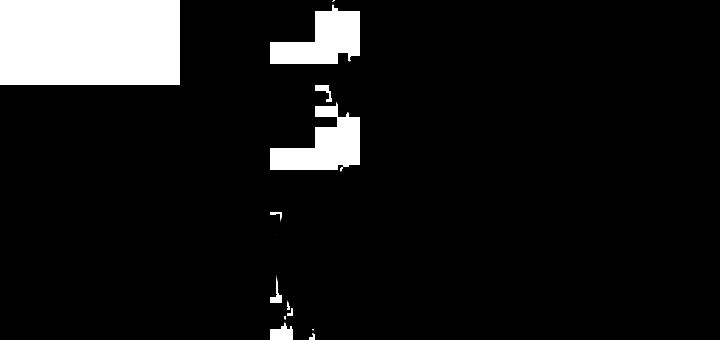
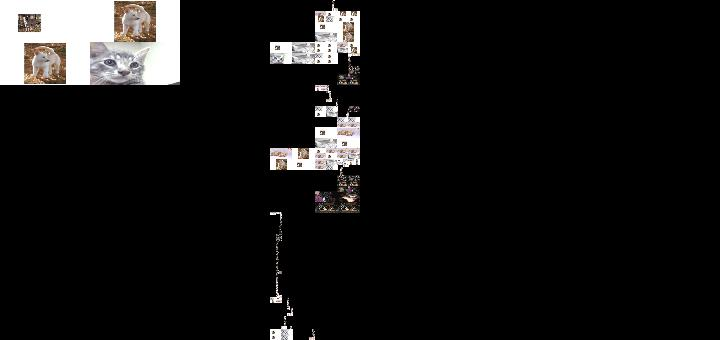
Choose tiles from img collection.

diff --git a/MosaicBuilder.py b/MosaicBuilder.py
@@ -18,7 +18,7 @@ class MosaicBuilder:
         self.mosaic_img = MosaicImage(image_data)
 
     # find k nearest tiles for a part and return one random
-    def nearest_tile(self, part_data, k=K_NEAREST_TILES):
+    def nearest_tile_index(self, part_data, k=K_NEAREST_TILES):
         # go through each tile in turn looking for the best match for the part of the image represented by 'img_data'
         part_mean_lab_clr = self.mean_lab_clr(part_data)
         clr_differences_between_part_and_tiles = np.array([self.color_distance_lab(tile.mean_lab_clr, part_mean_lab_clr) for tile in self.tiles_data])
@@ -58,7 +58,8 @@ class MosaicBuilder:
                 pocket_with_quarters += current_quarters # его части добавили в карман для дальнейшего деления 
             else:
                 for quarter in current_quarters:  
-                    self.mosaic_img.add_tile(quarter[0], quarter[1]) # иначе сразу вставляем четверти в мозайку
+                    tile_to_paste = self.tiles_data[self.nearest_tile_index(quarter[0])]
+                    self.mosaic_img.add_tile(tile_to_paste, quarter[1]) # иначе сразу вставляем четверти в мозайку
                 result_slices += current_quarters
             current_img = pocket_with_quarters.pop(0)   
         self.mosaic_img.save(OUT_FILE)

diff --git a/MosaicImage.py b/MosaicImage.py
@@ -7,7 +7,10 @@ class MosaicImage:
 	def add_tile(self, tile_data, coords):
 		#img = Image.new('RGB', (coords[2]-coords[0], coords[3]-coords[1]))
 		#img.putdata(tile_data.load())
-		self.image.paste(tile_data, coords)
+		print("coords", coords)
+		print("size", coords[2]-coords[0], coords[3]-coords[1])
+		tile_to_paste = tile_data.resize((coords[2]-coords[0], coords[3]-coords[1]))
+		self.image.paste(tile_to_paste, coords) #(coords[0], coords[1], coords[3], coords[3])
 
 	def save(self, path):
 		self.image.save(path)

diff --git a/Tile.py b/Tile.py
@@ -23,5 +23,5 @@ class Tile:
     def __mean_lab(self):
         return convert_color(sRGBColor(*self.mean_rgb_clr), LabColor)
 
-    def scale_tile(self, new_w, new_h):
-        pass
+    def resize(self, size):
+        return self.tile.resize(size)
